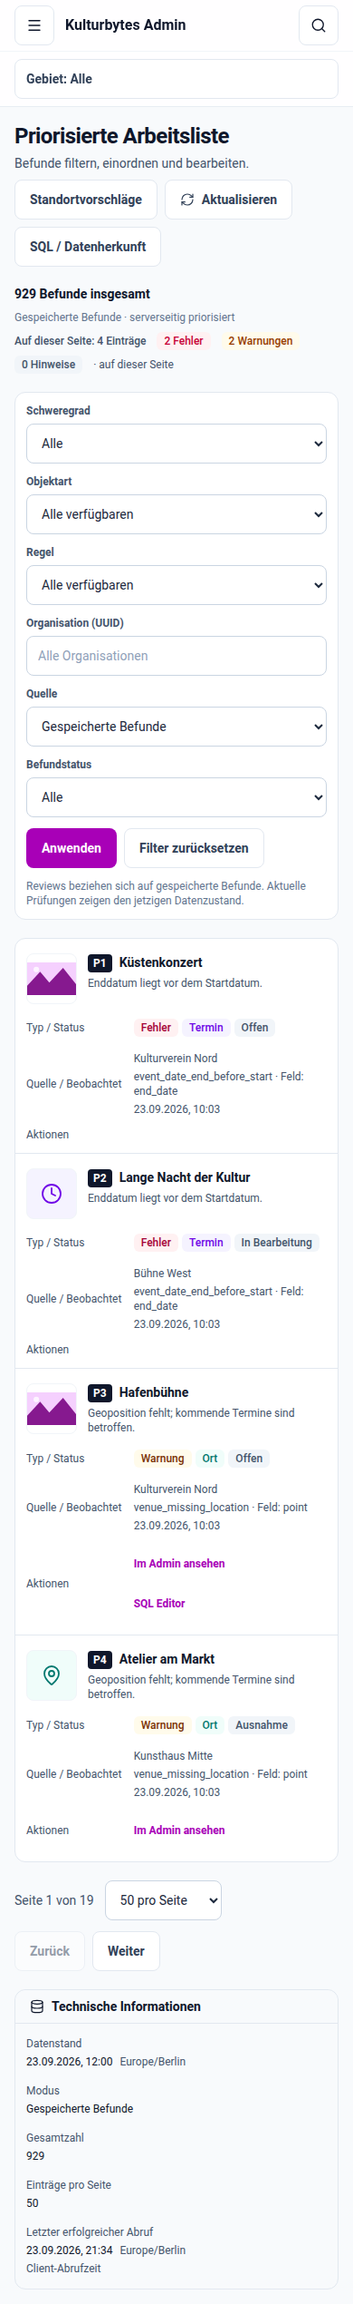
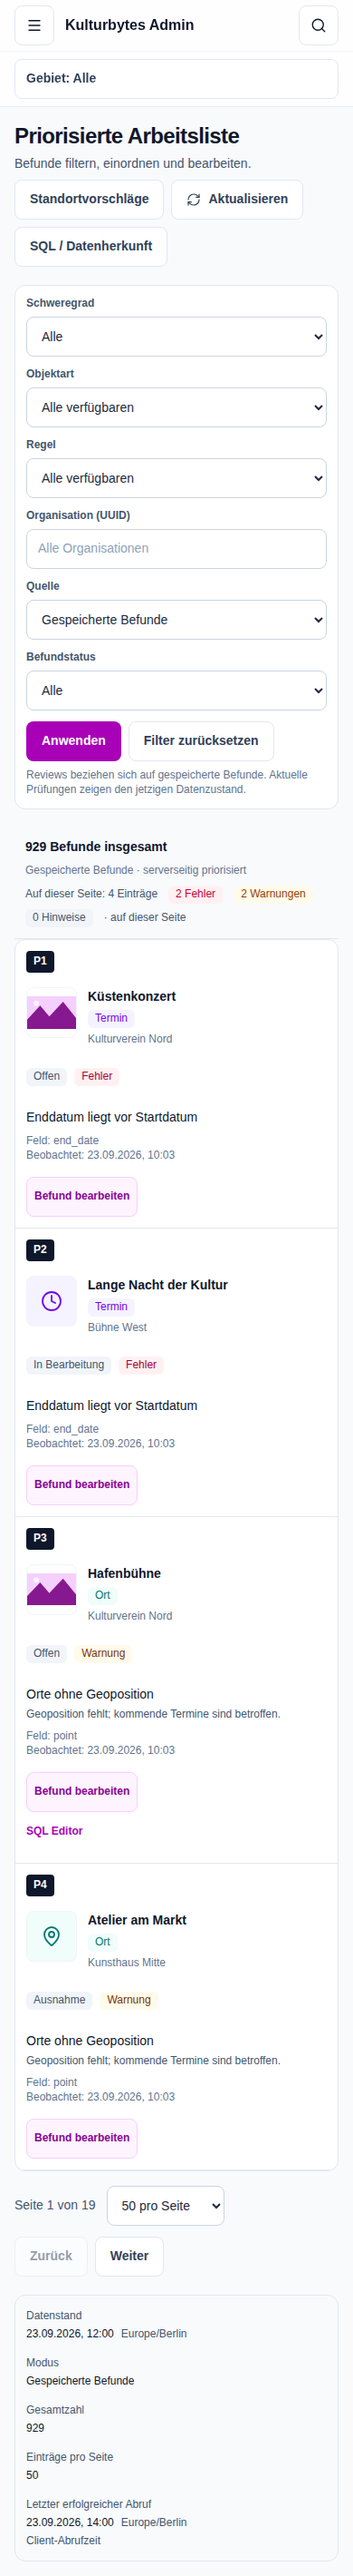
docs(ui): record verified findings workflow screenshots

diff --git a/frontend/docs/screenshots/operations-workflows/README.md b/frontend/docs/screenshots/operations-workflows/README.md
@@ -8,10 +8,10 @@ Die Matrix erfasst 1440 × 1000, 1024 × 768, 390 × 844 und 360 × 800. Fixture
 Abrufzeit sind für diese Aufnahmen auf den 23.09.2026, 14:00 Europe/Berlin fixiert.
 Die globale Kopfzeile zeigt die Laufzeit des CI-Servers. Weder Namen noch Bilder oder Datenstände stammen aus Produktion.
 
-| Ansicht        | Desktop                                   | Mobile                                 |
-| -------------- | ----------------------------------------- | -------------------------------------- |
-| Befunde        | [1440 × 1000](findings-desktop.png)       | [390 × 844](findings-mobile.png)       |
-| Finding Detail | [1440 × 1000](finding-detail-desktop.png) | [390 × 844](finding-detail-mobile.png) |
+| Ansicht        | Desktop                                   | Tablet                                  | Mobile                                 | Small Mobile                                 |
+| -------------- | ----------------------------------------- | --------------------------------------- | -------------------------------------- | -------------------------------------------- |
+| Befunde        | [1440 × 1000](findings-desktop.png)       | [1024 × 768](findings-tablet.png)       | [390 × 844](findings-mobile.png)       | [360 × 800](findings-small-mobile.png)       |
+| Finding Detail | [1440 × 1000](finding-detail-desktop.png) | [1024 × 768](finding-detail-tablet.png) | [390 × 844](finding-detail-mobile.png) | [360 × 800](finding-detail-small-mobile.png) |
 
 Die Liste zeigt Priorität zuerst, getrennte Datensatz-/Befundzellen, Reviewstatus,
 44px-Bearbeitung und verfügbare SQL-Aktionen. Der Tabellenkopf haftet nur innerhalb
@@ -19,10 +19,18 @@ des lokalen Desktop-Scrollbereichs. Tablet nutzt ein Grid, Mobile gestapelte Zei
 Das breite Detail trennt Evidenz, Priorisierung, Review, operative Zuständigkeit,
 Werkzeuge und Technik. Live hat keine Review-/Assignment-Aktion.
 
-Die CI stellt `frontend-test-results` auch bei erfolgreichen Läufen bereit. Die
-Review-Screenshots werden nach Sichtung gezielt aus diesem Artefakt übernommen;
-Visual-Goldens werden nicht automatisch überschrieben. Der abschließende CI-Lauf
-und die Sichtung werden nach Fertigstellung hier dokumentiert.
+Die Aufnahmen stammen aus dem vollständig erfolgreichen [CI-Lauf 35922079338](https://github.com/sndcds/uranus-admin/actions/runs/35922079338)
+für `004df8245773f1cb1b23cd412e8745a9912dbc11`. Alle acht Findings-/Detailaufnahmen wurden
+manuell gesichtet: Priorität und Zeilengrenzen sind erkennbar; Tablet zeigt ein Grid,
+Mobile eine einzelne Spalte; lange Namen sowie Seiten-/Dialogüberlauf sind zusätzlich
+automatisch geprüft. Das Detail scrollt vertikal; Werkzeuge und Technik folgen unterhalb
+des initialen Ausschnitts. Die Screenshots sind Review-Artefakte, keine Pixel-Goldens.
+
+Ergebnis: Backend-Lint/Format/mypy und **1922 pytest-Tests** bestanden;
+Frontend-Lint/Typecheck, **654 Unit-Tests in 49 Dateien**, Build und **391 Production-E2E**
+inklusive CSP bestanden. Neun Browserfälle sind absichtliche Doppelungen der Viewportmatrix
+bzw. der reine Desktop-Sticky-Test im Mobile-Projekt; kein fachlicher Test wurde ausgesetzt.
+`frontend-test-results` wird auch nach erfolgreichen Läufen als CI-Artefakt bereitgestellt.
 
 Reproduktion aus `frontend/` nach Installation und Build:
 

diff --git a/frontend/docs/ui-ux-audit.md b/frontend/docs/ui-ux-audit.md
@@ -54,9 +54,15 @@ Finding-Identitäten, festen Recipes und typisierten Schlüsseln. Die Standardse
 bleibt `persisted`; Authentifizierung und Lese-/Ressourcengrenzen bleiben erhalten.
 Gemeinsame Kopieraktionen und SQL-Zeilennummern wurden ebenfalls vereinheitlicht/korrigiert.
 
-Validierungsstand des Findings-Follow-ups: vollständige GitHub-CI und aktuelle synthetische Review-Aufnahmen werden vor Ready-for-Review geprüft.
-Lokale Tests wurden auf ausdrücklichen Wunsch wegen Rechnerauslastung gestoppt;
-vorherige Ergebnisse und Screenshots belegen nur einen Zwischenstand.
+Validierungsstand des Findings-Follow-ups: [CI für `004df82`](https://github.com/sndcds/uranus-admin/actions/runs/35922079338)
+vollständig bestanden: Backend-Lint/mypy, 1922 pytest-Tests; Frontend-Lint/Typecheck,
+654 Unit-Tests, Build und 391 Production-E2E inklusive CSP. Neun absichtliche doppelte
+Viewport-/Desktop-Fälle sind übersprungen. Aktuelle Findings-/Detailaufnahmen wurden für
+1440/1024/390/360 manuell gesichtet; automatisierte Prüfungen sichern Spaltenaufteilung,
+langen Text, Sticky-Kopf und fehlenden Seiten-/Dialogüberlauf ab. Lokale Testläufe blieben
+auf Wunsch wegen Rechnerlast aus. Die früheren Inbox-/Marks-Aufnahmen bleiben unverändert
+als Zwischenstand gekennzeichnet; die scoped Marks-Aufnahme wartet separat auf eine
+Neuerfassung nach vollständig geladener Liste.
 
 Stand ist Code-/Reviewstand, keine Behauptung eines Deployments. [Review-Aufnahmen](screenshots/operations-workflows/README.md).
 
